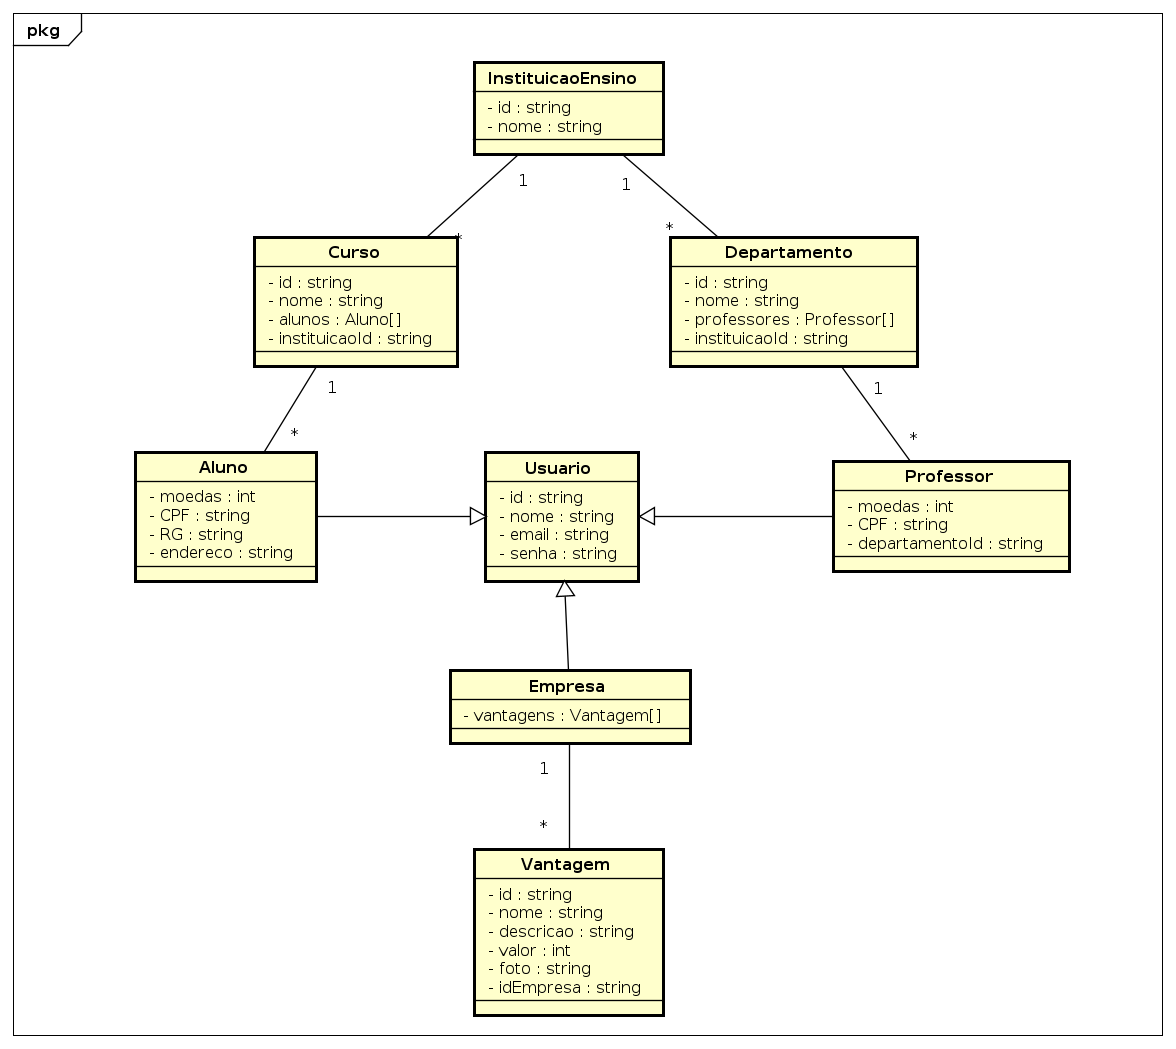
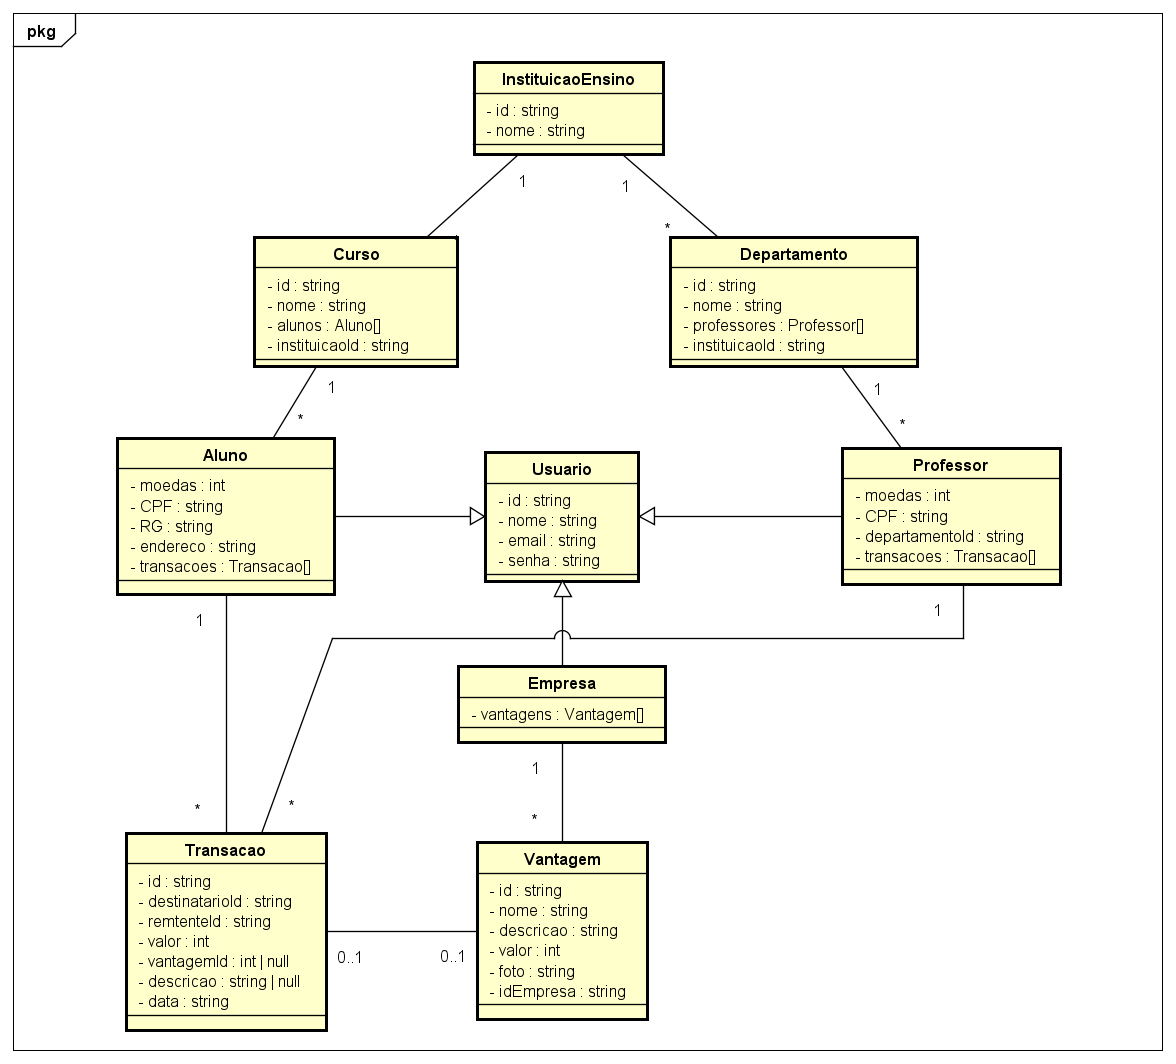
backend: Saldo aluno

diff --git a/implementacao/back/src/repositories/aluno.repository.ts b/implementacao/back/src/repositories/aluno.repository.ts
@@ -1,4 +1,6 @@
+import { ITransacao, Transacao, Usuario } from '../models';
 import { Aluno, IAluno } from '../models/aluno';
+import { ISaldoAluno } from '../types';
 
 export class AlunoRepository {
   public async getAllAlunos(): Promise<IAluno[]> {
@@ -22,5 +24,28 @@ export class AlunoRepository {
 
   public async deleteAluno(id: string): Promise<void> {
     await Aluno.findByIdAndDelete(id);
+  }
+
+  public async getSaldoAluno(id: string): Promise<ISaldoAluno> {
+    const aluno = await Aluno.findById(id);
+    
+    if (aluno) {
+      const transacoes = await Transacao.find({ $or: [{ remetenteId: id }, { destinatarioId: id }] })
+
+      transacoes.forEach(async transacao => {
+        if(transacao.remetenteId !== id) {
+          const usuario = await Usuario.findById(transacao.remetenteId);
+          transacao.remetenteId = usuario?.nome || '';
+        } else {
+          const usuario = await Usuario.findById(transacao.destinatarioId);
+          transacao.destinatarioId = usuario?.nome || '';
+        }
+      });
+
+
+      return { moedas: aluno.moedas, transacoes };
+    }
+
+    return { moedas: 0, transacoes: [] };
   }
 }

diff --git a/implementacao/back/src/models/transacao.ts b/implementacao/back/src/models/transacao.ts
@@ -1,0 +1,50 @@
+import mongoose, { Document, Schema, model } from 'mongoose';
+
+export interface ITransacao extends Document {
+  destinatarioId: string;
+  remetenteId: string;
+  valor: number;
+  data: Date;
+  descricao: string | null;
+  vantagemId: string | null;
+}
+
+const transacaoSchema = new Schema({
+  destinatarioId: {
+    type: String,
+    required: true,
+    trim: true,
+  },
+
+  remetenteId: {
+    type: String,
+    required: true,
+    trim: true,
+  },
+
+  valor: {
+    type: Number,
+    required: true,
+    trim: true,
+  },
+
+  data: {
+    type: Date,
+    required: true,
+    trim: true,
+  },
+
+  descricao: {
+    type: String,
+    required: false,
+    trim: true,
+  },
+
+  vantagemId: {
+    type: String,
+    required: false,
+    trim: true,
+  }
+});
+
+export const Transacao = model<ITransacao>('transacao', transacaoSchema);

diff --git a/implementacao/back/src/controllers/aluno.controller.ts b/implementacao/back/src/controllers/aluno.controller.ts
@@ -1,6 +1,7 @@
 import { Request, Response } from 'express';
 import { AlunoService } from '../services';
 import { IAluno } from '../models';
+import { ISaldoAluno } from '../types';
 
 export class AlunoController {
   private alunoService: AlunoService;
@@ -38,5 +39,11 @@ export class AlunoController {
     const id: string = req.params.id;
     await this.alunoService.deleteAluno(id);
     res.send();
+  }
+
+  public async getSaldoAluno(req: Request, res: Response): Promise<void> {
+    const id: string = req.params.id;
+    const saldo: ISaldoAluno = await this.alunoService.getSaldoAluno(id);
+    res.send(saldo);
   }
 }

diff --git a/implementacao/back/src/services/aluno.service.ts b/implementacao/back/src/services/aluno.service.ts
@@ -1,5 +1,6 @@
 import { IAluno } from '../models/aluno';
 import { AlunoRepository } from '../repositories';
+import { ISaldoAluno } from '../types';
 
 export class AlunoService {
   private alunoRepository: AlunoRepository;
@@ -26,5 +27,9 @@ export class AlunoService {
 
   public async deleteAluno(id: string): Promise<void> {
     return await this.alunoRepository.deleteAluno(id);
+  }
+
+  public async getSaldoAluno(id: string): Promise<ISaldoAluno> {
+    return await this.alunoRepository.getSaldoAluno(id);
   }
 }

diff --git a/implementacao/back/src/types/index.ts b/implementacao/back/src/types/index.ts
@@ -1,0 +1,6 @@
+import { ITransacao } from '../models';
+
+export interface ISaldoAluno {
+  moedas: number;
+  transacoes: ITransacao[];
+}

diff --git a/implementacao/back/src/models/index.ts b/implementacao/back/src/models/index.ts
@@ -1,3 +1,4 @@
 export * from './aluno'
 export * from './usuario'
 export * from './empresa'
+export * from './transacao'
